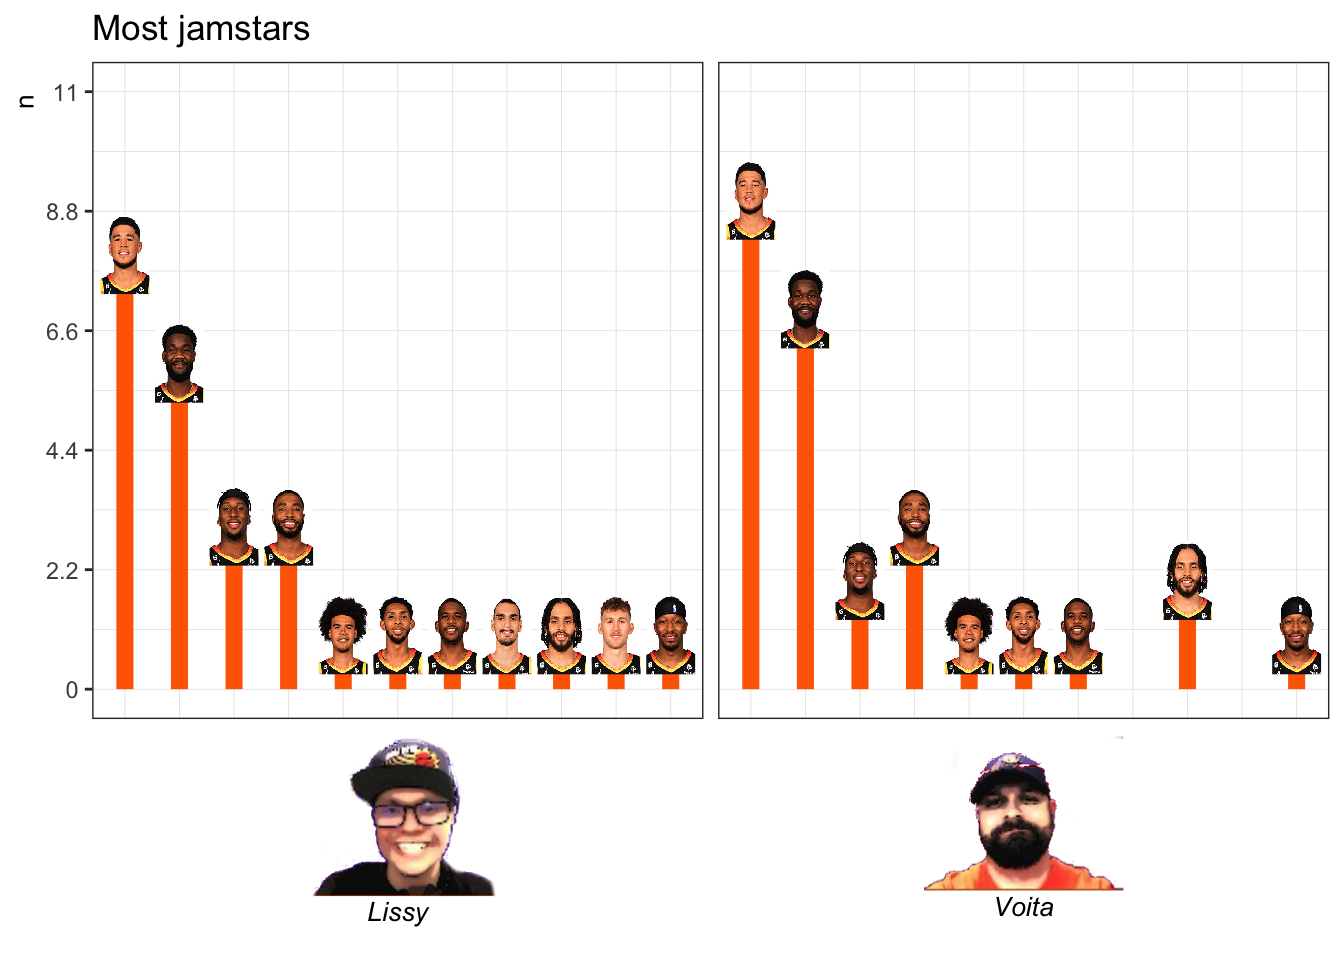
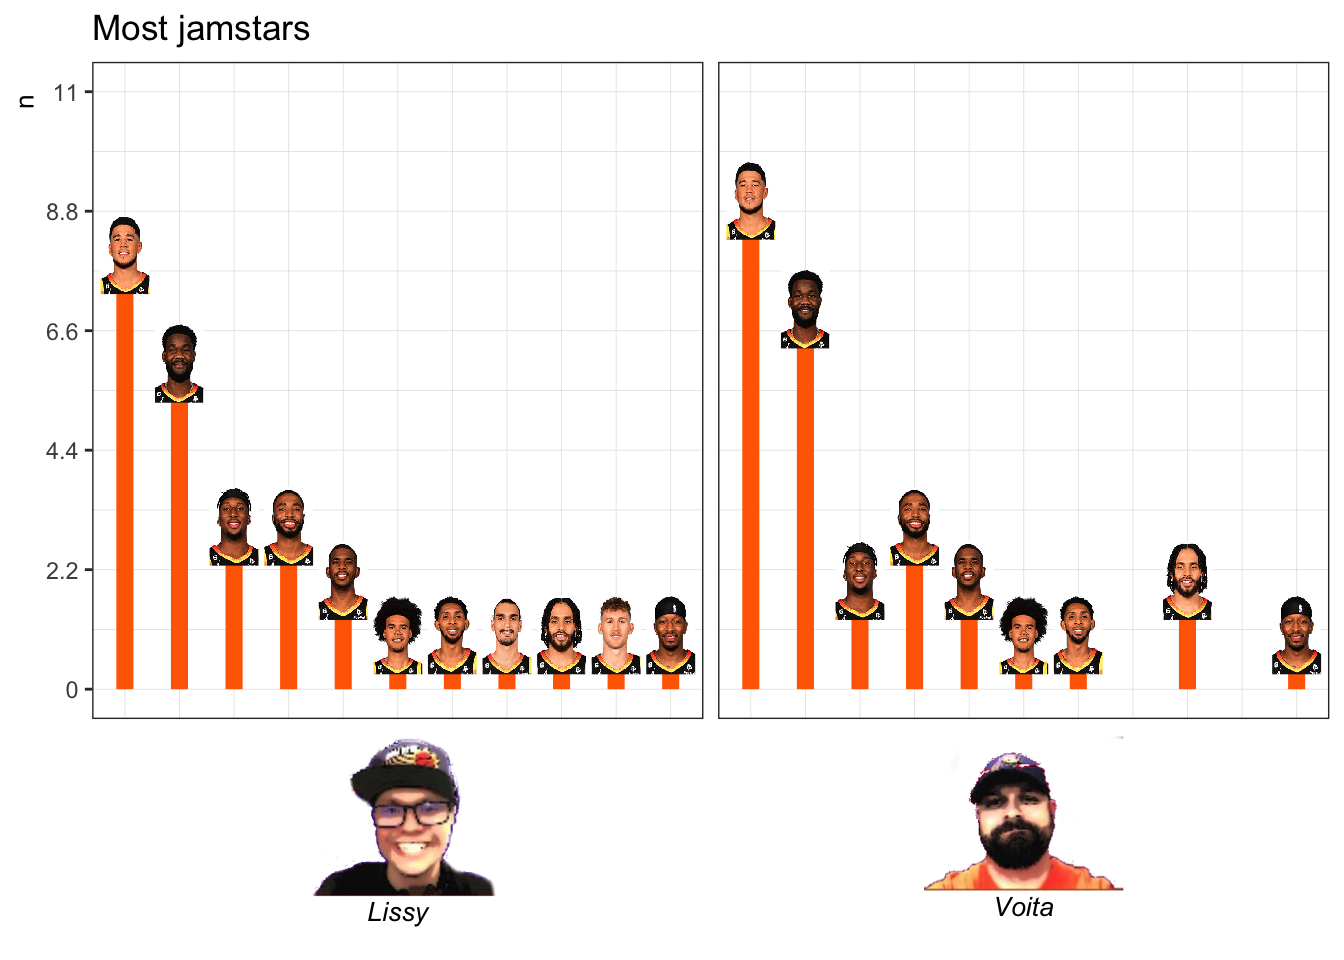
31

Changed region(s): [[0.2188, 0.5625, 0.375, 0.7188], [0.6875, 0.5625, 0.8125, 0.7188]]

diff --git a/index.html b/index.html
@@ -63,7 +63,7 @@ ul.task-list li input[type="checkbox"] {
 
 </header>
 
-<p>Last update: 2022-12-18</p>
+<p>Last update: 2022-12-20</p>
 <div class="cell" data-layout-align="center">
 
 </div>
@@ -94,7 +94,7 @@ ul.task-list li input[type="checkbox"] {
 <section id="misc." class="level2">
 <h2 class="anchored" data-anchor-id="misc.">Misc.</h2>
 <ul>
-<li>Data come from a total of 30 games.</li>
+<li>Data come from a total of 31 games.</li>
 <li>There are 5 abnormalities
 <ul>
 <li>On 2022-11-5, 2022-11-7, 2022-11-11 there was no jamstar</li>
@@ -399,6 +399,15 @@ ul.task-list li input[type="checkbox"] {
    <td style="text-align:left;"> Voita </td>
    <td style="text-align:left;"> Devin Booker </td>
    <td style="text-align:left;"> Devin Booker </td>
+   <td style="text-align:left;"> w </td>
+   <td style="text-align:left;"> NA </td>
+  </tr>
+  <tr>
+   <td style="text-align:left;"> 2022-12-19 </td>
+   <td style="text-align:left;"> Lakers </td>
+   <td style="text-align:left;"> Voita </td>
+   <td style="text-align:left;"> Chris Paul </td>
+   <td style="text-align:left;"> Chris Paul </td>
    <td style="text-align:left;"> w </td>
    <td style="text-align:left;"> NA </td>
   </tr>
